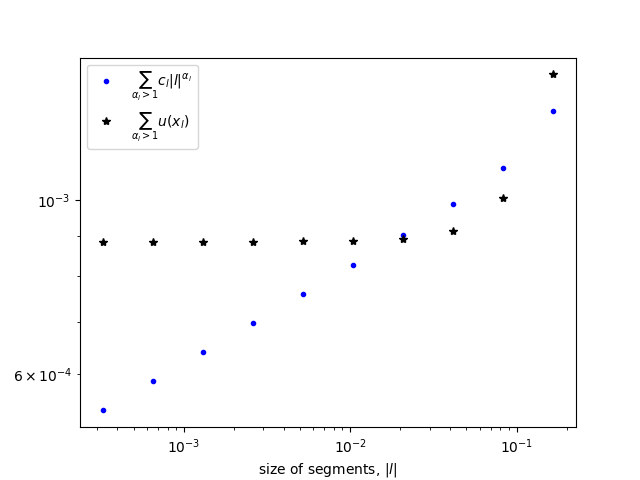
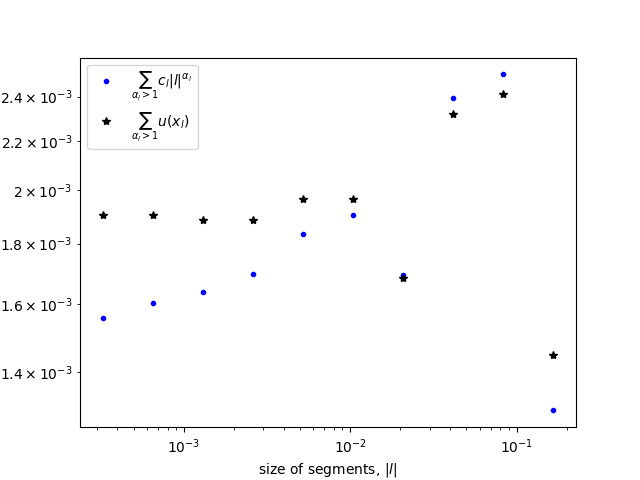
update

diff --git a/Ex3_square_harmonic_adaptive/check_hm_v2.py b/Ex3_square_harmonic_adaptive/check_hm_v2.py
@@ -60,7 +60,7 @@ for N in N_all:
    ms_u=0
    alpha_list,c_list,xl_list=get_alpha(uh,line_list,dy_list,N,l)[0:3]
    for i in range(len(alpha_list)):
-     if alpha_list[i]>1:
+     if alpha_list[i]>1.01:
         ms=ms+c_list[i]*l**alpha_list[i]
         ms_u=ms_u+uh.at(xl_list[i]) 
    ms_list.append(ms)
